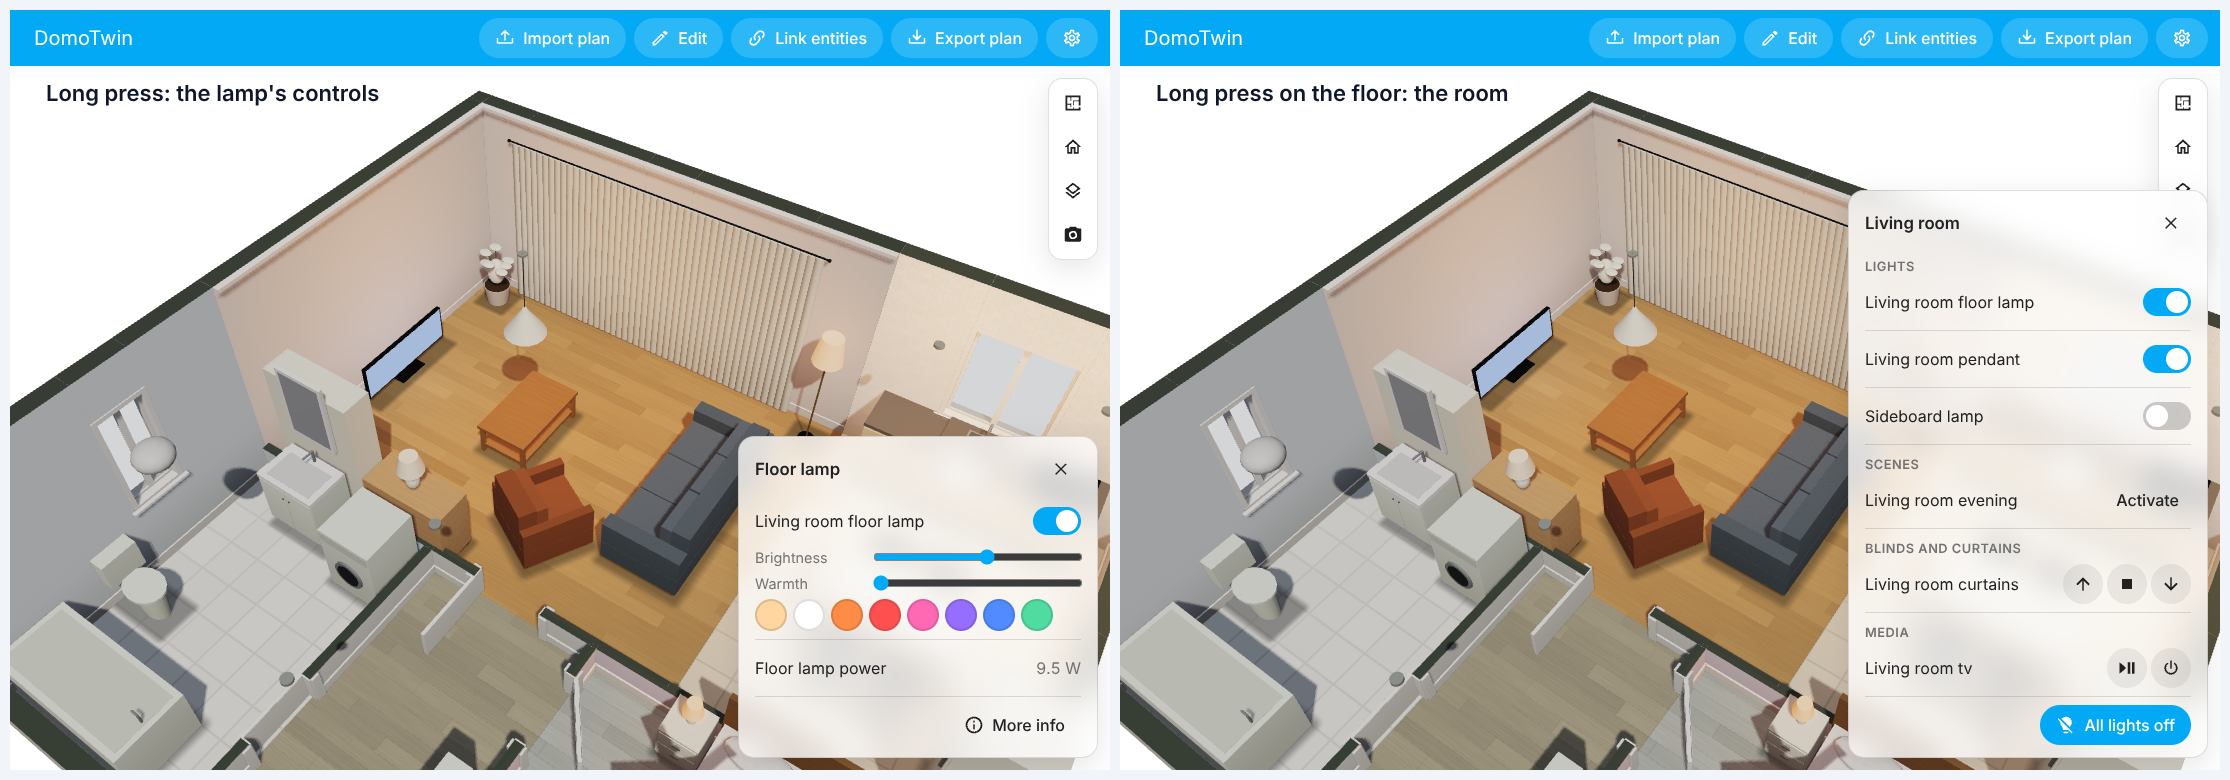
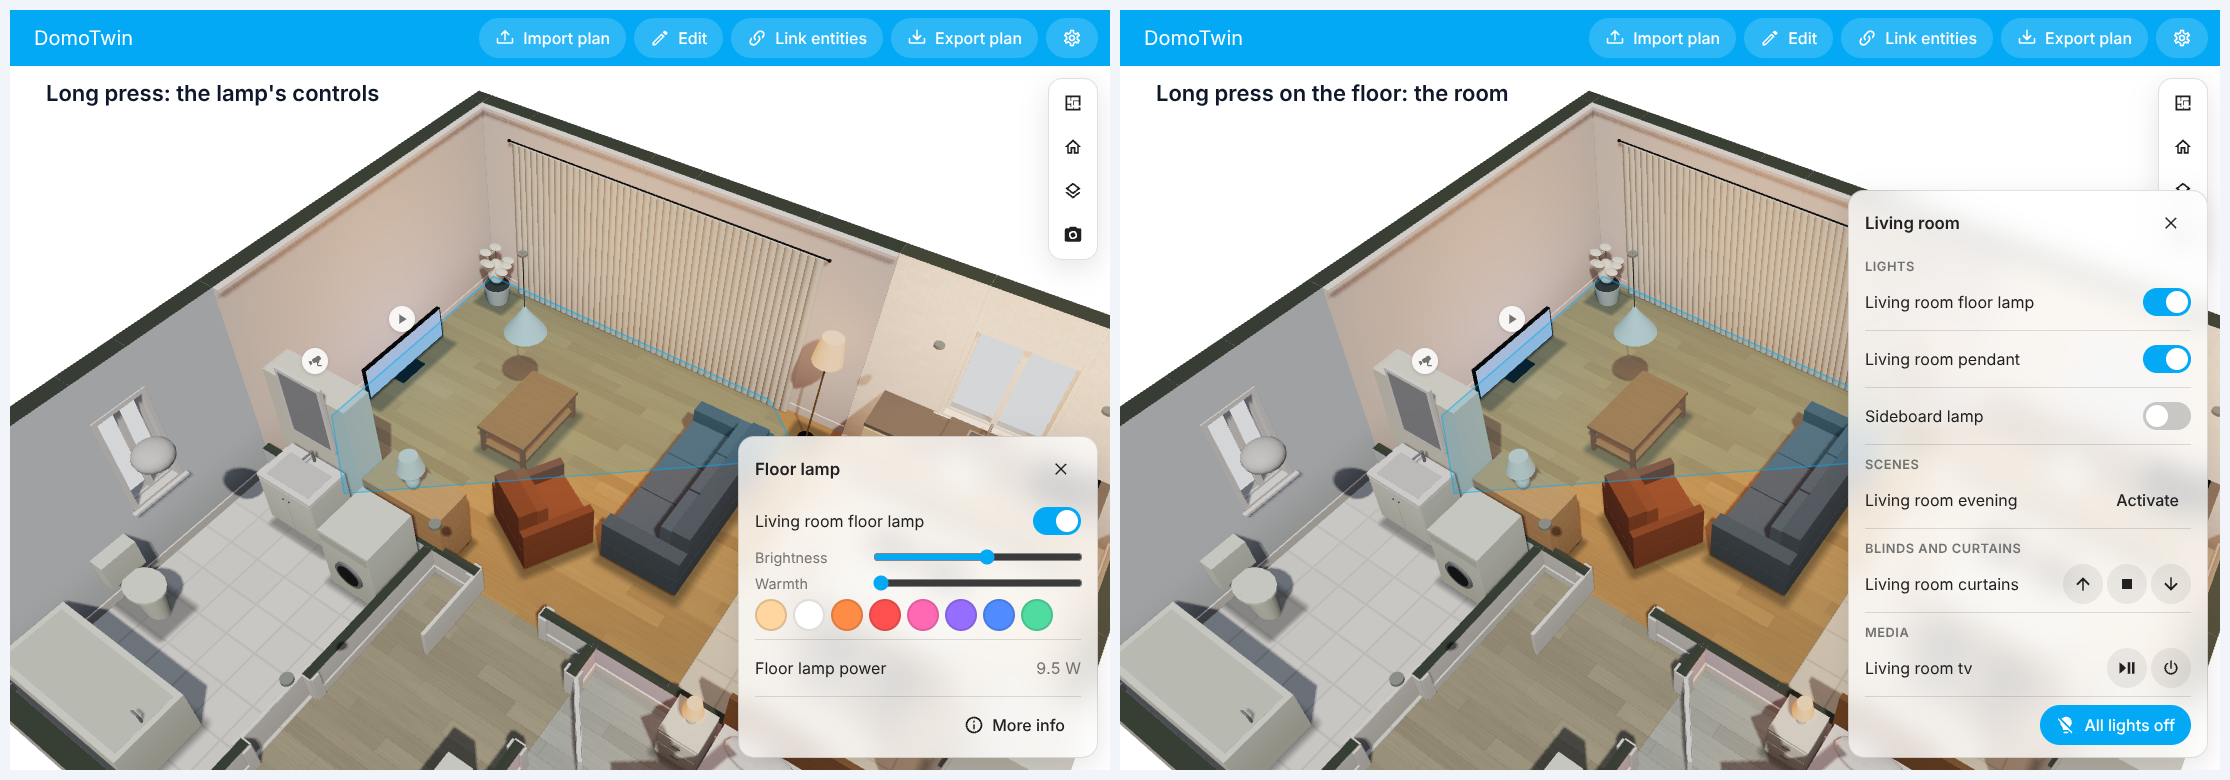
docs: devices, measurements and pictures (m5)
D-024 records how devices are drawn. The roadmap, the bindings page,
both READMEs and the performance page follow, with a picture of the
badges and of a camera's view made from the fictional demo home.

Claude-Session: https://claude.ai/code/session_01MdonJq9hYPn9yZJEoWBmnq

Changed region(s): [[0.1238, 0.3385, 0.3713, 0.6462], [0.6188, 0.3385, 0.8354, 0.6462]]

diff --git a/docs/bindings.md b/docs/bindings.md
@@ -51,6 +51,8 @@ A complete example for the demo apartment is in
 | `entities`    | array  | required (1–16)      | `{ entity_id, role? }`, see roles below.               |
 | `tap_action`  | object | from the first role  | See actions.                                          |
 | `hold_action` | object | `{ "action": "controls" }` | Long press.                                     |
+| `fov`         | number 10–180 | 90            | A linked camera's angle of view (degrees).            |
+| `range`       | number 50–3 000 | 600         | A linked camera's reach (cm).                         |
 
 **Roles.** When `role` is absent it is derived from the domain and the device class:
 
@@ -62,7 +64,8 @@ A complete example for the demo apartment is in
 | `cover`    | `cover.*`                                                     | curtains, blinds, position     |
 | `media`    | `media_player.*`                                              | TV screen glow, media controls |
 | `contact`  | `binary_sensor.*` with class `door`, `window`, `opening`, `garage_door` | doors and windows open |
-| `lock`     | `lock.*`                                                      | alerts, door look              |
+| `lock`     | `lock.*`                                                      | badge (locked, unlocked…)      |
+| `camera`   | `camera.*`                                                    | what it sees, badge, live view |
 | `power`    | `sensor.*` with class `power`                                 | power layer                    |
 | `climate`  | `climate.*`                                                   | room panel                     |
 | `sensor`   | any other entity                                              | labels, layers                 |
@@ -102,6 +105,27 @@ The engine receives only the bound entities, and only when their state changes. 
 Lamps not bound keep the plan's state (`lightOff`). Lamps count less in daylight: a lamp lit at noon
 barely shows, at night it lights its room (`DECISIONS.md`, D-016). At most 16 lamps light the scene
 at once, the strongest first.
+
+## Devices
+
+Each linked element can carry badges for what its devices are doing (`DECISIONS.md`, D-024),
+shown over it in 3D and 2D; a tap on them does what a tap on the element does. At most two show
+on one element, the most urgent first.
+
+| Badge | From | Look |
+| --- | --- | --- |
+| Lock | a `lock` entity: locked, unlocked, locking or unlocking, open, jammed | green when locked, red when jammed, amber when open |
+| Camera | a `camera` entity: idle or streaming, recording, unavailable | red and pulsing while it records |
+| Playing | a `media` entity playing (its title in the label) | |
+| Battery low | a `sensor` with class `battery` at 20 % or less, or a `binary_sensor` battery on | amber, with the level |
+| Running | a washing machine, dryer, dishwasher, cooker, hood or printer whose power sensors read more than 10 W, or whose `binary_sensor` with class `running` is on | its own icon, pulsing |
+
+**What a camera sees.** An element linked to a camera shows its cone on the floor: from the
+centre of the piece towards its front (the `y + h` side, the way it faces), `fov` wide and `range`
+long, cut to the piece's room. It is blue, red while recording, grey and dashed when the camera is
+unavailable. The camera on the bookcase of the demo apartment looks into the living room. A tap
+opens Home Assistant's more-info dialog, with the live picture. The card's `badges: false` and
+`cameras: false` turn them off; so does the layer menu.
 
 ## Tap and long press
 
@@ -150,13 +174,15 @@ instead of acting on it, and opens its editor:
 - **Suggestions** from the room's area: the entities that fit the element, best first, those
   already linked left out. Lamps take lights and switches, fans fans and lights, curtains covers,
   TVs media players, doors door contacts, locks and garage covers, windows window contacts and
-  covers, appliances power sensors and switches.
+  covers, appliances power sensors and switches, shelves and models cameras; a battery sensor
+  fits anything.
 - **Search** by name or entity id, accents ignored.
 - **On tap** and **On long press**: automatic (on tap from the first role, on long press
   DomoTwin's controls), toggle, more info, DomoTwin's controls, **run an action** (`domain.action`,
   for example `scene.turn_on`, on one of the linked entities or none), **open a page** (a path of
   Home Assistant such as `/lovelace/0`) or nothing. The fields are checked before saving. An action
   written by hand with fields the editor does not show (`data`, another target) is kept as it is.
+- For a camera: **what it sees**, its angle of view and reach (empty: 90° and 600 cm).
 - For a room: its **Home Assistant area**, with the one found by name preselected.
 
 Each save applies this one change to the latest stored bindings and sends the revision it read: if

diff --git a/README.fr.md b/README.fr.md
@@ -17,7 +17,7 @@ Local, rapide, Rust + WebAssembly.</p>
 > route](https://github.com/arthur-leguennec/ha-domotwin/blob/main/docs/ROADMAP.md), en anglais).
 > L’intégration, le panneau, la carte, l’import du plan et de l’IFC, les vues 3D et 2D, le
 > pilotage en direct (états, toucher, appui long, panneau de pièce, liaisons), le mode édition, vos
-> propres modèles 3D et les calques fonctionnent déjà ; les appareils, un éditeur de plan et les
+> propres modèles 3D, les calques et les appareils fonctionnent déjà ; un éditeur de plan et les
 > étages arrivent ensuite. Les fonctionnalités ci-dessous décrivent la version 0.1.0.
 
 ## Fonctionnalités
@@ -36,6 +36,9 @@ Local, rapide, Rust + WebAssembly.</p>
   des capteurs de la zone de chaque pièce, des alertes de sécurité qui pulsent dans leur pièce
   (fumée, gaz, fuite d’eau, alarme, fenêtre ouverte sous la pluie), les pièces occupées, le vrai
   soleil qui entre par vos fenêtres, et ce que consomme chaque appareil.
+- **Appareils.** Des badges sur vos appareils (l’état d’une serrure, une caméra qui enregistre, ce
+  qui est en lecture, une batterie faible, le lave-linge en marche), et ce que voit chaque caméra,
+  dessiné au sol de sa pièce ; touchez pour l’image en direct.
 - **Mode édition.** Déplacez, tournez et empilez les meubles avec aimantation, repères et
   annulation, ajoutez des meubles depuis un catalogue, liez n’importe quel objet à des entités (avec
   des suggestions tirées de vos pièces), et ajoutez votre propre meuble ou appareil avec son modèle
@@ -61,6 +64,10 @@ Local, rapide, Rust + WebAssembly.</p>
 
 <p align="center">
   <img src="https://raw.githubusercontent.com/arthur-leguennec/ha-domotwin/main/docs/figures/screenshot-layers.png" alt="Les calques : la température de chaque pièce en carte de chaleur avec sa légende, la consommation des appareils, une alerte de fumée qui pulse dans la cuisine, et le soleil qui entre par les fenêtres" width="100%">
+</p>
+
+<p align="center">
+  <img src="https://raw.githubusercontent.com/arthur-leguennec/ha-domotwin/main/docs/figures/screenshot-devices.png" alt="Les appareils : des badges sur la porte d’entrée, la télévision, la caméra et le lave-linge, et le cône de ce que voit la caméra du séjour sur le plan 2D" width="100%">
 </p>
 
 ## Démarrage rapide
@@ -100,6 +107,8 @@ YAML n’est jamais nécessaire. Pour référence, les options de la carte :
 | `alerts`      | `true`, `false`                     | `true`     | Alertes de sécurité des pièces (fumée, gaz, eau, alarme, fenêtre ouverte sous la pluie). |
 | `presence`    | `true`, `false`                     | `true`     | Les pièces occupées s’illuminent doucement.   |
 | `sun`         | `fixed`, `real`                     | `fixed`    | `real` : le soleil éclaire depuis sa vraie position (`sun.sun`), par les fenêtres. |
+| `badges`      | `true`, `false`                     | `true`     | Badges des appareils : serrures, caméras, lecture, batteries faibles, appareils en marche. |
+| `cameras`     | `true`, `false`                     | `true`     | Ce que voient les caméras liées, dessiné au sol. |
 | `font_family` | une famille de police               | incluse    | Police des textes de la carte.                |
 
 Options de l’intégration (Paramètres → Appareils et services → DomoTwin → Configurer) : afficher le

diff --git a/README.md b/README.md
@@ -16,9 +16,9 @@ Local, fast, Rust + WebAssembly.</p>
 > **Status: early development.** DomoTwin is built milestone by milestone
 > ([roadmap](https://github.com/arthur-leguennec/ha-domotwin/blob/main/docs/ROADMAP.md)). The
 > integration, the panel, the card, the plan and IFC import, the 3D and 2D views, live control
-> (states, tap, long press, room panel, linking), the edit mode, your own 3D models and the layers
-> work today; devices, a plan editor and storeys come next. The features below describe version
-> 0.1.0.
+> (states, tap, long press, room panel, linking), the edit mode, your own 3D models, the layers and
+> the devices work today; a plan editor and storeys come next. The features below describe
+> version 0.1.0.
 
 ## Features
 
@@ -34,6 +34,9 @@ Local, fast, Rust + WebAssembly.</p>
   sensors of each room's area, safety alerts that pulse in their room (smoke, gas, water leak,
   alarm, a window open in the rain), the rooms someone is in, the real sun coming in through your
   windows, and what each appliance draws.
+- **Devices.** Badges over your devices (a lock's state, a camera recording, what plays, a battery
+  running low, the washing machine running), and what each camera sees drawn on the floor of its
+  room; tap for the live picture.
 - **Edit mode.** Move, rotate and stack furniture with snapping, guides and undo, add pieces from
   a catalogue, link any object to entities (with suggestions from your areas), and add your own
   furniture or appliance with its 3D model (glTF/GLB, OBJ, STL or 3MF). See
@@ -57,6 +60,10 @@ Local, fast, Rust + WebAssembly.</p>
 
 <p align="center">
   <img src="https://raw.githubusercontent.com/arthur-leguennec/ha-domotwin/main/docs/figures/screenshot-layers.png" alt="Layers: the temperature of each room as a heatmap with its legend, the power drawn by the appliances, a smoke alert pulsing in the kitchen, and the sun coming in through the windows" width="100%">
+</p>
+
+<p align="center">
+  <img src="https://raw.githubusercontent.com/arthur-leguennec/ha-domotwin/main/docs/figures/screenshot-devices.png" alt="Devices: badges over the entrance door, the TV, the camera and the washing machine, and the cone of what the living room's camera sees on the 2D plan" width="100%">
 </p>
 
 ## Quick start
@@ -94,6 +101,8 @@ YAML is never required. For reference, the card options are:
 | `alerts`      | `true`, `false`                     | `true`     | Safety alerts of the rooms (smoke, gas, water, alarm, a window open in the rain). |
 | `presence`    | `true`, `false`                     | `true`     | The rooms someone is in glow softly.      |
 | `sun`         | `fixed`, `real`                     | `fixed`    | `real`: the sun lights from where it is (`sun.sun`), through the windows. |
+| `badges`      | `true`, `false`                     | `true`     | Badges over the devices: locks, cameras, what plays, low batteries, appliances running. |
+| `cameras`     | `true`, `false`                     | `true`     | What the linked cameras see, drawn on the floor. |
 | `font_family` | a font family                       | bundled    | Font of the card's texts.                 |
 
 Integration options (Settings → Devices & services → DomoTwin → Configure): show the panel in the

diff --git a/docs/DECISIONS.md b/docs/DECISIONS.md
@@ -432,3 +432,36 @@ Decided while the maintainer was away (M4); open to review.
   motion stops it). Sensors outside the room's area do not count, and picking a room's sensors one
   by one is left for later. The halo is centred on the mean of the room's corners, which can fall
   outside an L-shaped room. The settings hold only north for now.
+
+## D-024 · Devices: badges from the links, cameras' cones from the pieces, both over the picture
+
+Decided while the maintainer was away (M5); open to review.
+
+- **Context.** M5 shows what the devices of the home are doing. The plan format has a closed list
+  of kinds (unknown ones read as `desk`) and DomoTwin's exports must stay valid House Maquette
+  plans, so there is no "camera" or "lock" piece to add; but every element can already be linked
+  to entities.
+- **Decision.**
+  - **From the links.** A device is whatever its entity is linked to: a camera on the bookcase, a
+    lock on the entrance door, a battery sensor on the door it powers. A new `camera` role joins
+    the roles (derived from `camera.*`). The binding of an element may say what its camera sees:
+    `fov` (10–180°, 90 by default) and `range` (50–3 000 cm, 600), set in the link editor and
+    checked by the integration.
+  - **Badges in the page, not in the scene.** The frontend works out each element's badges from
+    the states it already has (lock state, camera, playing, battery at 20 % or less, an appliance
+    running: power over 10 W or a `running` sensor), at most two per element, the most urgent
+    first. The engine only says where elements are drawn (`elementPoints`, one call for all), read
+    again only when the camera moves or something changes (D-023's rule for labels). Badges are
+    buttons: a tap does the element's tap; they say what they show to screen readers.
+  - **Cones on the floor, cut to the room.** The engine draws a camera's cone from the centre of
+    its piece towards the piece's front, cut to the piece's room by clipping the room's polygon with
+    the cone (Sutherland–Hodgman), and returns it projected on the floor (`cameraViews`); the view
+    draws it as an SVG polygon, blue, red while recording, grey and dashed when unavailable. No
+    geometry is added to the scene, so nothing is rebuilt when a camera's settings change.
+  - **Unavailable devices.** A lock or a camera that is unavailable greys out its element, as
+    lights and covers do.
+- **Consequences.** Cones are not cut by furniture or by the walls of an open room (the room's
+  polygon stands for its walls). A camera must be linked to a piece; cameras of their own come
+  with the plan editor (M6). Badges hide while linking and in edit mode, where taps pick elements.
+  The badges and cones of a large home are a few dozen HTML and SVG nodes, moved only when the
+  camera moves.

diff --git a/docs/ROADMAP.md b/docs/ROADMAP.md
@@ -14,7 +14,7 @@ Legend: ✅ done · 🚧 in progress · ⏳ planned · ❓ needs a decision from
 | M3        | Edit mode: move, rotate, stack, undo, save, card editor    | ✅     |
 | M3b       | Your own furniture and appliances with their 3D model      | ✅     |
 | M4        | Layers: heatmap, alerts, presence, real sun, power         | ✅     |
-| M5        | Devices: cameras and what they see, locks, appliances      | ⏳     |
+| M5        | Devices: cameras and what they see, locks, appliances      | ✅     |
 | M6        | Plan editor: draw rooms, walls, doors and windows          | ⏳     |
 | M7        | Storeys: several floors, stairs, a storey switcher         | ⏳     |
 | M8        | Looks and kiosk: themes, walk mode, idle and night modes   | ⏳     |
@@ -262,9 +262,27 @@ Left for later: avatars of the people at home, picking a room's sensors one by o
 
 ## M5, devices
 
-Devices drawn as what they are: cameras with their field of view on the plan and a live picture on
-tap, locks with their state, appliances with what they are doing (washing, drying, cooking),
-media players with what they play.
+Devices drawn as what they are (`DECISIONS.md`, D-024; `bindings.md`, Devices).
+
+- ✅ **Badges** over linked elements, in 3D and 2D: a lock's state (locked, unlocked, moving,
+  open, jammed), a camera (recording, unavailable), what plays, a battery at 20 % or less, an
+  appliance running (washing machine, dryer, dishwasher, cooker, hood, printers: power over 10 W or
+  a `running` sensor). At most two per element, the most urgent first; a tap does what a tap on
+  the element does.
+- ✅ **Cameras**: a new `camera` role; the cone a camera sees on the floor, from the piece it is
+  linked to, cut to its room, red while recording; its angle of view and reach set in the link
+  editor (`fov`, `range`); a tap opens Home Assistant's more-info with the live picture.
+- ✅ Unavailable locks and cameras grey out their element, like lights.
+- ✅ Card options `badges` and `cameras`, the layer menu turns both off; linking suggests
+  cameras for shelves and models, and battery sensors for anything.
+- ✅ Tests: the cone and its clipping, the camera's settings (Rust); the engine's camera and
+  point API in headless Chromium; the badges' rules (vitest); `fov` and `range` validation
+  (pytest); badges, a tap on them, cones, recording, and setting a camera when linking (Playwright).
+
+![Devices: badges over the entrance door, the TV, the camera and the washing machine; what the living room's camera sees](figures/screenshot-devices.png)
+
+Left for later: cameras not on a piece (M6, drawn with the plan editor), a camera's picture in the
+view, cones cut by furniture, more device classes (vacuums with their position, irrigation).
 
 ## M6, plan editor
 

diff --git a/docs/PERFORMANCE.md b/docs/PERFORMANCE.md
@@ -206,3 +206,20 @@ object on a state change takes 0.05–0.2 ms. A moving layer draws 24 frames per
 nothing else moves (`frameInterval` in the view's debug state); SwiftShader itself draws only a
 few per second, so the rate on real GPUs is checked through the scheduler's cap, not by counting.
 
+
+### M5 (devices)
+
+Bundle: the first load is **327.3 kB gzipped** of 1 200 kB (+12.5 kB):
+
+| File | Raw | Gzipped |
+| --- | ---: | ---: |
+| `domotwin_web_bg.<hash>.wasm` | 613.0 kB | 267.4 kB |
+| `domotwin.js` (entry) | 82.6 kB | 23.1 kB |
+
+The engine grew by 7 kB gzipped (the camera role and settings, the cone and its clipping, the
+cameras' and elements' points), the entry by 2.5 kB (the badges, their icons and the cones).
+
+In headless Chromium with the demo apartment (three elements with badges, one camera): working
+out the badges from the `hass` object takes 0.04 ms, the elements' points 0.02 ms and the cameras'
+cones 0.07 ms, read only when the camera moves or a state changes; the CPU time per frame is
+unchanged (0.3 ms median, 1.1 ms p95).
